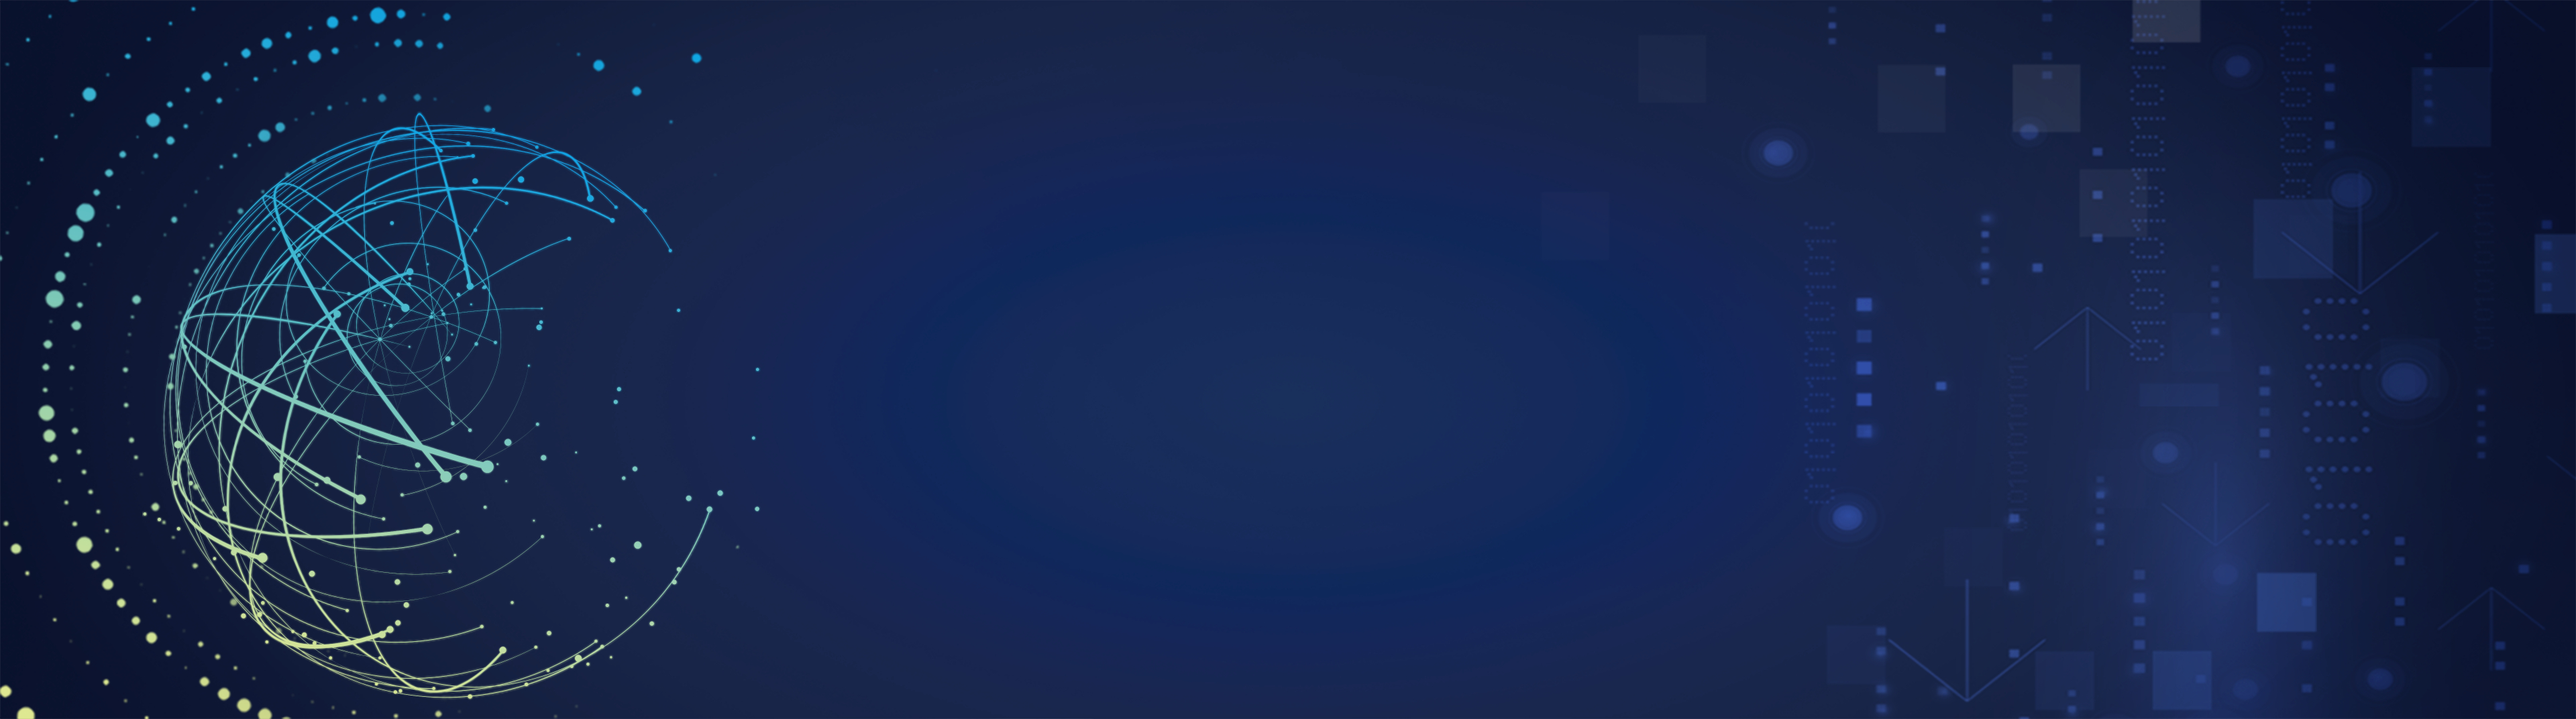
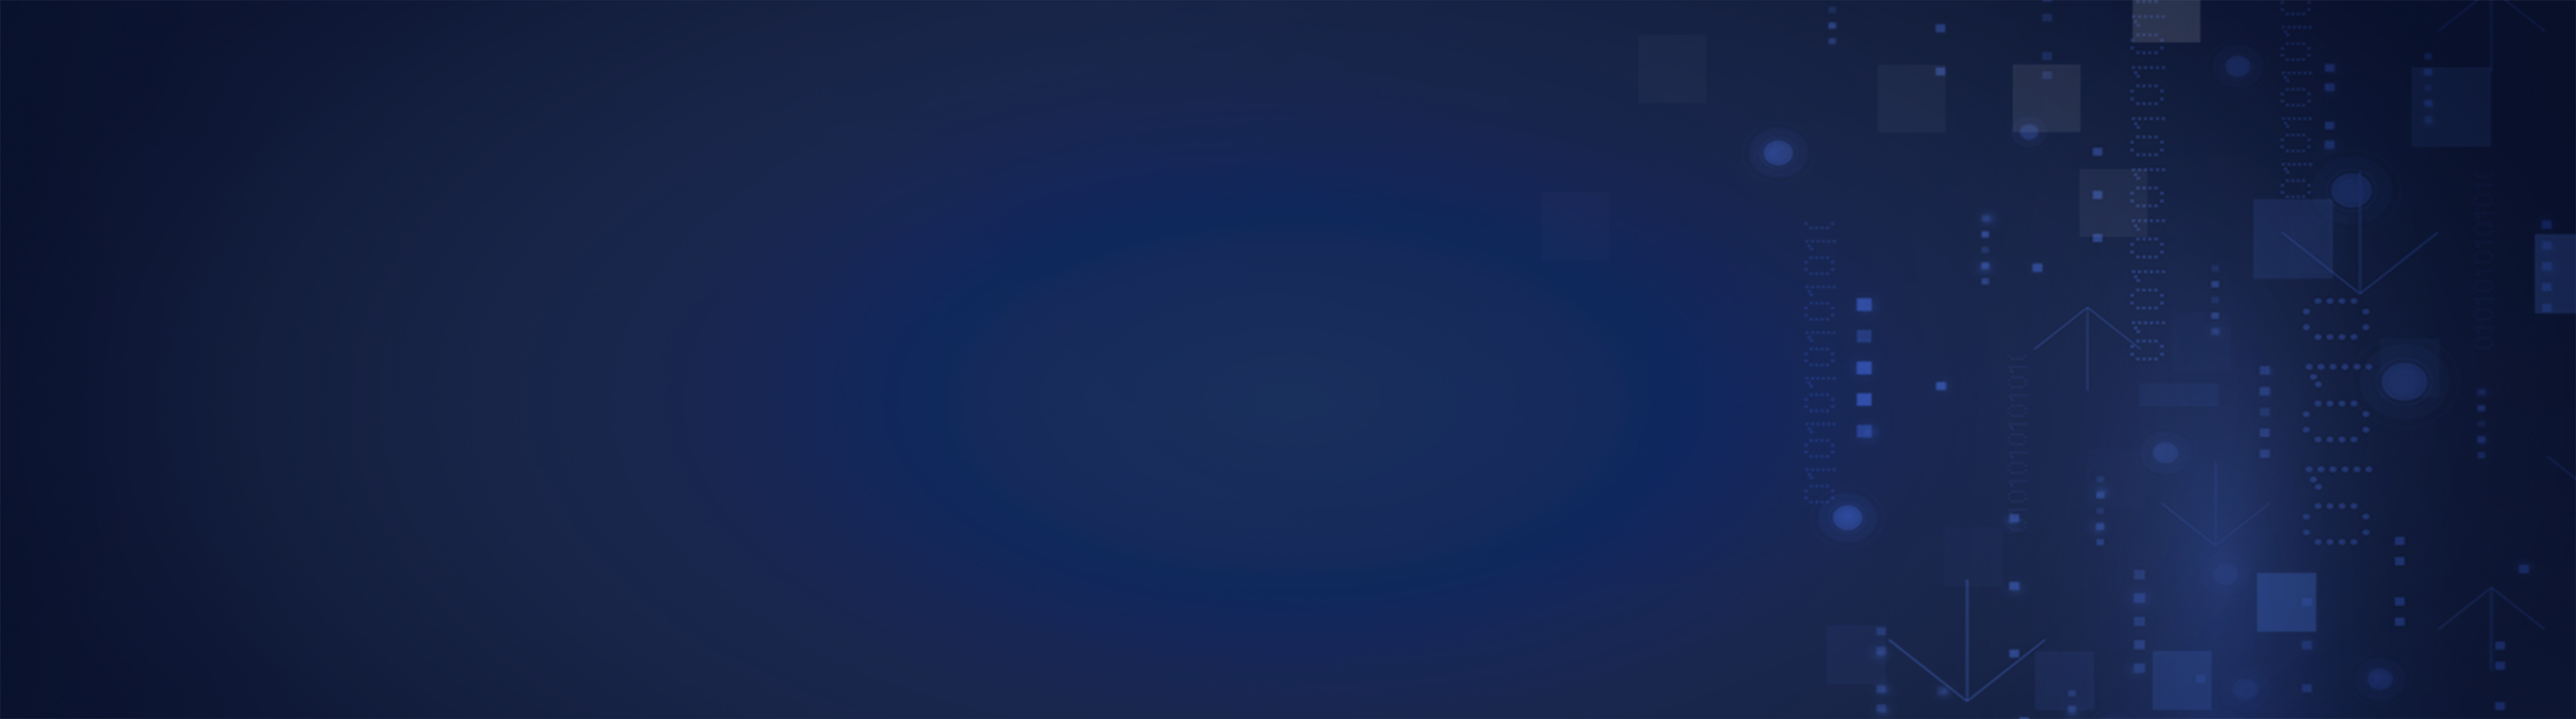
poster UI

diff --git a/src/components/Poster.vue b/src/components/Poster.vue
@@ -1,40 +1,238 @@
 <template>
     <div class="poster">
-        <h3>Join Liquidity Bootstrapping Pool (LBP) for Nsure</h3>
-        <div class="center">
+        <img src="../assets/images/center_ball.png" alt="">
+        <div class="box">
+            <h3>Join Liquidity Bootstrapping Pool (LBP) for Nsure</h3>
+            <div class="center">
 
+                <div class="tilan">
+                    <p>TGE on october <br> 22th 12:00</p>
+                    <img src="../assets/images/center_line.png" alt="">
+                    <div class="right">
+                        <div class="top">
+                            <img src="../assets/images/top_tighe.png" alt="">
+                            <h5>TGE date TBA</h5>
+                        </div>
+                        <ul>
+                            <li>
+                                <div>
+                                    <h3>{{days}}</h3>
+                                    <h4>DAYS</h4>
+                                </div>
+                            </li>
+                            <li>
+                                <div>
+                                    <h3>{{hours}}</h3>
+                                    <h4>HOURS</h4>
+                                </div>
+                            </li>
+                            <li>
+                                <div>
+                                    <h3>{{min}}</h3>
+                                    <h4>MINUTES</h4>
+                                </div>
+                            </li>
+                            <li>
+                                <div>
+                                    <h3>{{seconds}}</h3>
+                                    <h4>SECONDS</h4>
+                                </div>
+                            </li>
+                        </ul>
+                    </div>
+                </div>
+            </div>
+            <h4 class="bottom_button">Swap ETH for Nsure Tokens
+            </h4>
         </div>
     </div>
 </template>
 
 <script>
     export default {
-        name: "Poster"
+        name: "Poster",
+        data() {
+            return {
+                days: '--',
+                hours: '--',
+                min: '--',
+                seconds: '--',
+                endDate: new Date('2020/10/26')
+            };
+        },
+        mounted: function () {
+            this.countdown();
+        },
+        methods: {
+            countdown() {
+                const end = this.endDate.valueOf();
+                const now = new Date().valueOf();
+                const msec = end - now;
+                if (msec < 0) {
+                    return this.date_ = `End`;
+                }
+                let day = parseInt((msec / 1000 / 60 / 60 / 24).toString());
+                let hr = parseInt((msec / 1000 / 60 / 60 % 24).toString()) + day * 24;
+                let min = parseInt((msec / 1000 / 60 % 60).toString());
+                let sec = parseInt((msec / 1000 % 60).toString());
+                this.days = day > 9 ? day : '0' + day;
+                this.hours = hr > 9 ? hr : "0" + hr;
+                this.min = min > 9 ? min : "0" + min;
+                this.seconds = sec > 9 ? sec : "0" + sec;
+                this.date_ = `${hr}H ${min}m`;
+                setTimeout(() => {
+                    this.countdown();
+                }, 1000);
+            }
+        }
     }
 </script>
 
 <style lang="less" scoped>
-    .poster{
+    .poster {
         height: 535px;
         background-image: url('../assets/images/poster_bg.jpg');
         background-color: #19264E;
         background-repeat: no-repeat;
-        background-size: contain;
+        background-size: cover;
         background-position: center;
-        display: flex;
-        flex-direction: column;
-        align-items: center;
-        justify-content: center;
-        h3{
-            color: white;
-            font-size: 36px;
+        position: relative;
+
+        img {
+            width: 586px;
+            height: 535px;
         }
-        .center{
-            height: 240px;
-            width: 1157px;
-            background-image: url("../assets/images/poster_cen.png");
-            background-size: contain;
-            background-position: center;
+
+        .box {
+            position: absolute;
+            right: 5%;
+            display: flex;
+            top: 0;
+            bottom: 0;
+            margin: auto 0;
+            flex-direction: column;
+            align-items: center;
+            justify-content: center;
+
+            h3 {
+                color: white;
+                font-size: 36px;
+            }
+
+            .bottom_button {
+                height: 120px;
+                width: 630px;
+                border: 3px #75FFBE solid;
+                border-radius: 100px;
+                box-sizing: border-box;
+
+
+                font-size: 36px;
+                font-weight: bold;
+                color: #75FFBE;
+                line-height: 120px;
+                text-align: center;
+
+            }
+
+            .center {
+                height: 240px;
+                width: 1157px;
+                margin: 28px 0 22px 0;
+                background-image: url("../assets/images/poster_cen.png");
+                background-size: contain;
+                background-position: center;
+                position: relative;
+                display: flex;
+                flex-direction: column;
+                justify-content: center;
+                align-items: center;
+
+                .tilan {
+                    display: flex;
+                    justify-content: center;
+                    align-items: center;
+                    width: 100%;
+
+                    p {
+                        /*width: 423px;*/
+                        font-size: 50px;
+                        font-family: Arial;
+                        text-align: center;
+                        font-weight: 400;
+                        color: white;
+                        line-height: 72px;
+                        flex: 1;
+                        padding-left: 20px;
+                        box-sizing: border-box;
+                    }
+
+                    img {
+                        height: 135px;
+                        width: 1px;
+                    }
+
+                    .right {
+                        padding: 0 16px;
+                        box-sizing: border-box;
+                        flex: 2;
+
+                        .top {
+
+                            display: flex;
+
+                            img {
+                                width: 68px;
+                                height: 17px;
+                                display: block;
+                                align-items: center;
+                            }
+
+                            h5 {
+                                margin-left: 10px;
+                                color: white;
+                                font-size: 16px;
+                                height: 16px;
+                            }
+                        }
+
+                        ul {
+                            display: flex;
+
+                            li {
+                                margin-right: 70px;
+
+                                div {
+                                    text-align: center;
+                                    display: flex;
+                                    flex-direction: column;
+                                    align-items: center;
+                                    justify-content: center;
+
+                                    h3 {
+                                        font-size: 100px;
+                                        font-weight: bold;
+                                        color: #75FFBE;
+                                        line-height: 72px;
+                                        margin: 10px 0;
+                                    }
+
+                                    h4 {
+
+                                        font-size: 24px;
+                                        font-weight: 400;
+                                        color: #75FFBE;
+
+                                    }
+                                }
+
+                            }
+                        }
+                    }
+                }
+            }
         }
+
+
     }
 </style>
